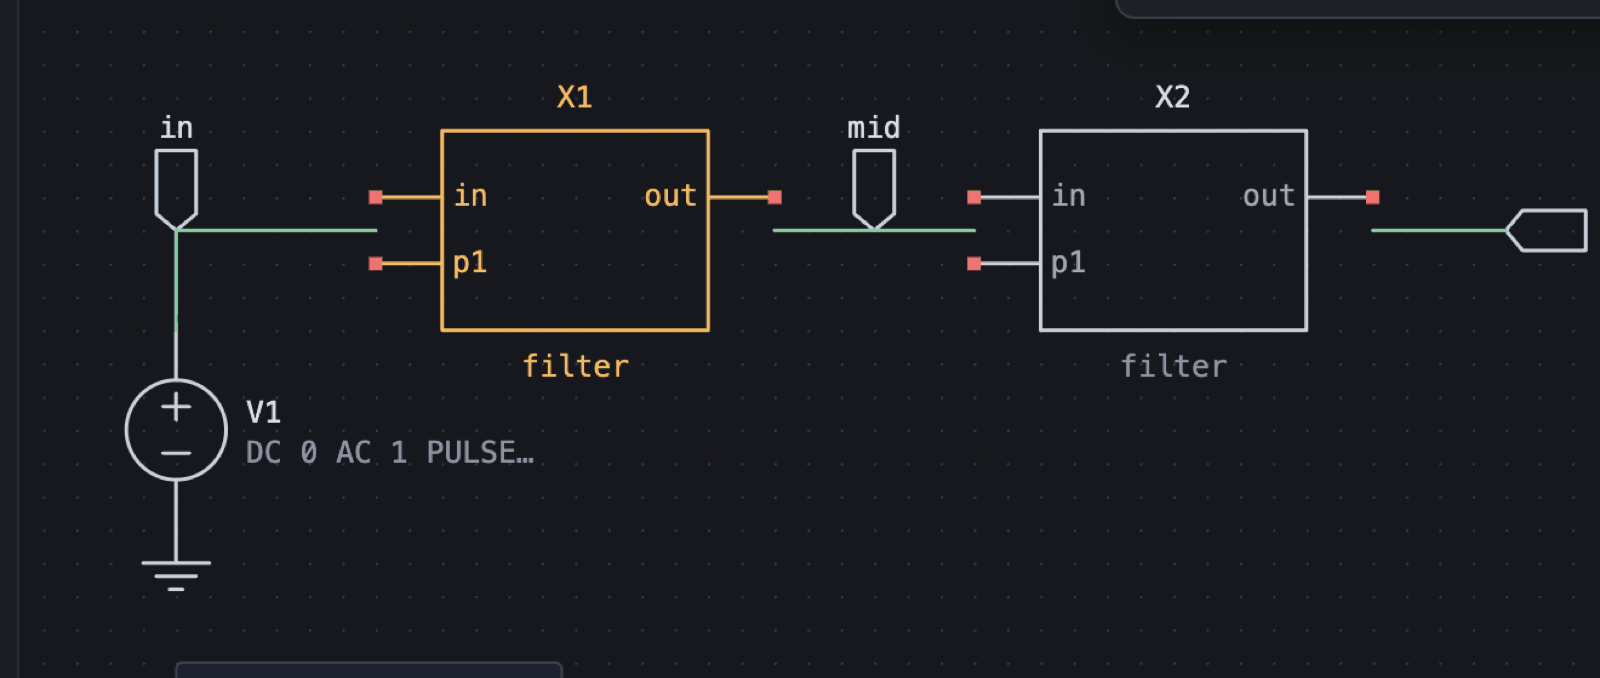
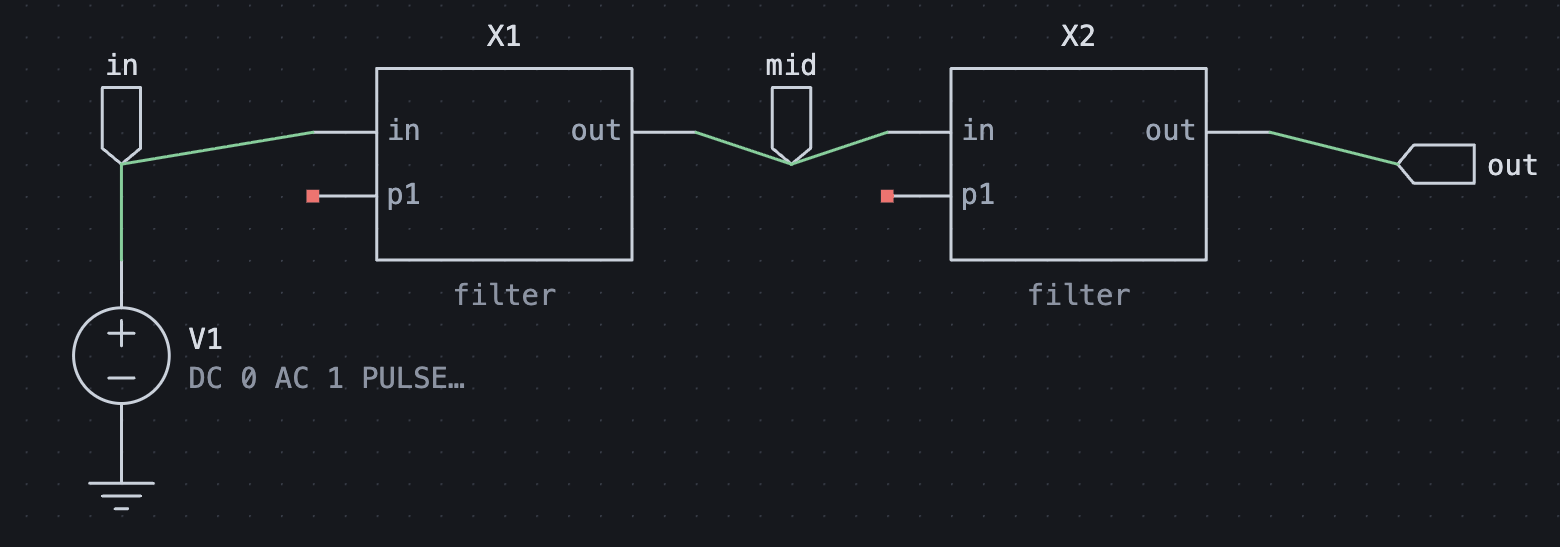
Fix issues found while writing the guide
- Block wires follow their pins (matched by name) when a sheet's ports change,
  for both the automatic refresh and Update pins
- Operating Point table shows the first vector (.op rawfiles have no scale)
- Analysis dialog adds a card unless opened via Edit as analysis
- Monte Carlo: legend scrolls instead of squeezing the plot; mean/sigma/min/max
  columns come first in Measurements
- New-project location keeps ~ at the start; long pack licences no longer
  widen the library detail card
- README: Sample pack listed, platforms are macOS and Windows
- Guide text and two screenshots updated to match

diff --git a/src/renderer/src/schematic/Schematic.tsx b/src/renderer/src/schematic/Schematic.tsx
@@ -1,5 +1,5 @@
 import { useEffect, useId, useImperativeHandle, useLayoutEffect, useMemo, useRef, useState, type KeyboardEvent as RKE, type MouseEvent as RME, type PointerEvent as RPE, type Ref } from 'react'
-import { GRID, blockShape, junctions, newPart, nextName, onSegment, pins, route, same, snap, uid, sheetPorts, unconnectedPins, xform, type Directive, type Part, type Pt, type Sheet } from './model'
+import { GRID, blockShape, junctions, reshapeBlocks, newPart, nextName, onSegment, pins, route, same, snap, uid, sheetPorts, unconnectedPins, xform, type Directive, type Part, type Pt, type Sheet } from './model'
 import { SYMBOLS, isFlag, type Kind } from './symbols'
 import { netlist, type NetCtx } from './netlist'
 import { blockPartFields, libKey, type LibEntry } from '../library/library'
@@ -169,7 +169,7 @@ export function Schematic({ active, initial, onDirty, ref, overlay, onProbe, lib
   const [space, setSpace] = useState(false)
   const [hov, setHov] = useState<ProbeTarget | null>(null)
   const [showOp, setShowOp] = useState(true)
-  const [dlg, setDlg] = useState<Tab | 'analysis' | null>(null) // analysis dialog open, on this tab
+  const [dlg, setDlg] = useState<Tab | 'analysis' | 'edit' | null>(null) // analysis dialog open, on this tab ('edit': rewrite the selected card)
   const [srcDlg, setSrcDlg] = useState(false)
   const [band, setBand] = useState<{ a: Pt; b: Pt } | null>(null) // differential probe rubber band
   const modal = !!dlg || srcDlg
@@ -557,10 +557,8 @@ export function Schematic({ active, initial, onDirty, ref, overlay, onProbe, lib
     if (p?.sheet && onOpenSheet) return onOpenSheet(p.sheet)
     ta.current?.focus()
   }
-  // re-fit a sheet block's pins to the sheet's current ports (wires on surviving pins follow by index)
-  function updateBlock(p: Part, ports: string[]) {
-    commit(remap(cur.current, new Set([p.id]), (q) => ({ ...q, ...blockShape(ports) })))
-  }
+  // re-fit a sheet block's pins to the sheet's current ports (wires on surviving pins follow by name)
+  const updateBlock = (p: Part, ports: string[]) => commit(reshapeBlocks(cur.current, new Set([p.id]), ports))
 
   const setText = (s: Sheet, id: string, text: string) => commit({ ...s, texts: s.texts.map((t) => (t.id === id ? { ...t, text } : t)) })
   function addCard(text: string) {
@@ -571,7 +569,7 @@ export function Schematic({ active, initial, onDirty, ref, overlay, onProbe, lib
   function applyAnalysis(a: Analysis) {
     const text = analysisText(a)
     setDlg(null)
-    if (dirA) return setText(cur.current, dir!.id, text)
+    if (dlg === 'edit' && dir) return setText(cur.current, dir.id, text)
     addCard(text)
   }
   // the sheet's .options line: the first directive line starting .options/.option/.opt (in any card)
@@ -769,7 +767,7 @@ export function Schematic({ active, initial, onDirty, ref, overlay, onProbe, lib
             <textarea ref={ta} rows={6} value={dir.text} spellCheck={false} onChange={(e) => editText(dir.id, e.target.value)}
               onKeyDown={(e) => e.key === 'Escape' && e.currentTarget.blur()} onBlur={() => (hist.current.merge = undefined)} />
           </label>
-          {dirA && <button onClick={() => setDlg('analysis')}>Edit as analysis…</button>}
+          {dirA && <button onClick={() => setDlg('edit')}>Edit as analysis…</button>}
           {optLine(dir.text) != null && <button onClick={() => setDlg('options')}>Edit options…</button>}
         </div>
       )}
@@ -777,8 +775,8 @@ export function Schematic({ active, initial, onDirty, ref, overlay, onProbe, lib
       <div className="sch-hint">{hint}</div>
       {/* portalled: panels beside the canvas would otherwise stack above the modal */}
       {dlg && createPortal(
-        <AnalysisDialog initial={dirA ?? undefined} sources={sources} nets={[...new Set(Object.values(nl.nets).flat())].filter((n) => n !== '0').sort()}
-          onApply={applyAnalysis} options={optCard(sheet) && optLine(optCard(sheet)!.text)} tab={dlg === 'analysis' ? undefined : dlg}
+        <AnalysisDialog initial={(dlg === 'edit' && dirA) || undefined} sources={sources} nets={[...new Set(Object.values(nl.nets).flat())].filter((n) => n !== '0').sort()}
+          onApply={applyAnalysis} options={optCard(sheet) && optLine(optCard(sheet)!.text)} tab={dlg === 'analysis' || dlg === 'edit' ? undefined : dlg}
           onOptions={(line) => (setDlg(null), putOptions(line, false))} onClose={() => setDlg(null)} />, document.body
       )}
       {srcDlg && one && isSrc(one) && createPortal(

diff --git a/test/project.test.ts b/test/project.test.ts
@@ -2,7 +2,7 @@ import { test } from 'node:test'
 import assert from 'node:assert/strict'
 import { inside, safeName } from '../src/main/paths.ts'
 import { newProject, parseProject, refreshBlocks, renameRefs, sheetFile, validName } from '../src/renderer/src/project/project.ts'
-import { blockShape, emptySheet, newPart, sheetPorts, type Sheet } from '../src/renderer/src/schematic/model.ts'
+import { blockShape, emptySheet, newPart, pins, sheetPorts, type Sheet } from '../src/renderer/src/schematic/model.ts'
 
 test('newProject round-trips through parseProject', () => {
   const p = newProject('Amp')
@@ -65,6 +65,23 @@ test('refreshBlocks / renameRefs update block instances only when needed', () =>
   const n = renameRefs(r, 'f.nsch', 'g.nsch')!
   assert.equal(n.parts[0].sheet, 'g.nsch')
   assert.equal(renameRefs(n, 'f.nsch', 'h.nsch'), null)
+})
+
+test('refreshBlocks: wires follow their pin by name when a port is added mid-list', () => {
+  const port = (s: Sheet, v: string, x: number, y: number) => newPart(s, 'port', x, y, 0, false, { value: v })
+  const sub = emptySheet()
+  sub.parts.push(port(sub, 'a', 0, 0), port(sub, 'c', 0, 40))
+  const main: Sheet = emptySheet()
+  const blk = newPart(main, 'block', 0, 0, 90, false, { sheet: 'f.nsch', ...blockShape(sheetPorts(sub)) }) // rotated
+  main.parts.push(blk)
+  const [pa, pc] = pins(blk)
+  main.wires.push({ id: 'wa', a: pa, b: { x: -200, y: -200 } }, { id: 'wc', a: { x: 200, y: 200 }, b: pc })
+  sub.parts.push(port(sub, 'b', 0, 20)) // ports now a, b, c: 'c' moves to the other side
+  const r = refreshBlocks(main, 'f.nsch', sub)!
+  const at = Object.fromEntries(r.parts[0].pins!.map((q, i) => [q.name, pins(r.parts[0])[i]]))
+  assert.deepEqual(r.wires[0].a, at.a)
+  assert.deepEqual(r.wires[1].b, at.c)
+  assert.deepEqual(r.wires[0].b, { x: -200, y: -200 }) // far ends untouched
 })
 
 test('parseProject: optional sim settings (compat, timeoutS)', () => {

diff --git a/src/renderer/src/layout/ResultsPanel.tsx b/src/renderer/src/layout/ResultsPanel.tsx
@@ -53,7 +53,7 @@ export function ResultsPanel({ tabs, cur, ran, onTab, sels, onSels, log, blamed,
   )
 }
 
-// one column per run; with more than 2 runs (Monte Carlo / sweeps) also mean, σ (sample), min and max
+// one column per run; with more than 2 runs (Monte Carlo / sweeps) mean, σ (sample), min and max come first
 function Measurements({ meas }: { meas: MeasTable }) {
   const names = [...new Set(meas.flatMap((r) => r.rows.map((m) => m.name)))]
   const stats = meas.length > 2
@@ -63,8 +63,8 @@ function Measurements({ meas }: { meas: MeasTable }) {
         <thead>
           <tr>
             <th />
-            {meas.map((r, i) => <th key={i}>{r.label || 'Value'}</th>)}
             {stats && ['mean', 'σ', 'min', 'max'].map((h) => <th key={h} className="stat">{h}</th>)}
+            {meas.map((r, i) => <th key={i}>{r.label || 'Value'}</th>)}
           </tr>
         </thead>
         <tbody>
@@ -76,12 +76,12 @@ function Measurements({ meas }: { meas: MeasTable }) {
             return (
               <tr key={n}>
                 <td>{n}</td>
+                {stats && [mean, sd, v.length ? Math.min(...v) : null, v.length ? Math.max(...v) : null].map((x, i) => <td key={i} className="stat">{eng(x)}</td>)}
                 {cells.map((m, i) => (
                   <td key={i} title={m?.text} className={m && m.value == null ? 'bad' : ''}>
                     {!m ? '—' : m.value == null ? 'failed' : eng(m.value)}
                   </td>
                 ))}
-                {stats && [mean, sd, v.length ? Math.min(...v) : null, v.length ? Math.max(...v) : null].map((x, i) => <td key={i} className="stat">{eng(x)}</td>)}
               </tr>
             )
           })}

diff --git a/src/renderer/src/library/library.css b/src/renderer/src/library/library.css
@@ -69,7 +69,7 @@
 .chip { flex: none; font: 10px var(--mono); padding: 1px 6px; border: 1px solid #353b48; border-radius: 9px; color: var(--dim); white-space: nowrap; }
 
 .libv-detail { padding: 20px 24px; }
-.libv-card { max-width: 720px; display: grid; gap: 10px; }
+.libv-card { max-width: 720px; display: grid; grid-template-columns: minmax(0, 1fr); gap: 10px; }
 .libv-head { display: flex; align-items: center; gap: 8px; flex-wrap: wrap; }
 .libv-card h2 { margin: 0 6px 0 0; font-size: 20px; font-weight: 600; font-family: var(--mono); }
 .libv-card h3 { display: flex; align-items: center; margin: 10px 0 0; font-size: 11px; font-weight: 600; text-transform: uppercase; letter-spacing: 0.05em; color: var(--dim); }
@@ -110,7 +110,7 @@
 
 /* library sources: packs (license badge + source), import target */
 .libv-lic { white-space: nowrap; font: 600 9px var(--mono); letter-spacing: 0.02em; text-transform: none; color: #8fc79a; border: 1px solid #3c5a43; border-radius: 4px; padding: 0 4px; }
-.chip.libv-lic { border-radius: 9px; font-weight: 400; font-size: 10px; }
+.chip.libv-lic { border-radius: 9px; font-weight: 400; font-size: 10px; max-width: 100%; overflow: hidden; text-overflow: ellipsis; }
 .libv-link { padding: 0; border: 0; background: none; font: inherit; color: var(--accent); }
 .libv-link:hover { background: none; text-decoration: underline; }
 .libv-to { display: grid; grid-template-columns: 1fr 1fr; border: 1px solid #353b48; border-radius: 6px; overflow: hidden; }

diff --git a/src/renderer/src/project/project.ts b/src/renderer/src/project/project.ts
@@ -1,7 +1,7 @@
 // Project file (.nsproj) model + pure sheet-set helpers. No React, no Electron: node --test loads it.
 import type { Compat, ProjectSim } from '../contracts.ts'
 import type { ImportedLib } from '../library/library.ts'
-import { blockShape, sheetPorts, type Sheet } from '../schematic/model.ts'
+import { reshapeBlocks, sheetPorts, type Sheet } from '../schematic/model.ts'
 import { SYMBOLS } from '../schematic/symbols.ts'
 
 export interface Project { version: 1; name: string; top: string; libs: ImportedLib[]; sim?: ProjectSim }
@@ -53,9 +53,8 @@ export function sheetFile(name: string): string | null {
 export function refreshBlocks(s: Sheet, file: string, sub: Sheet): Sheet | null {
   const ports = sheetPorts(sub), names = (a: string[]) => a.map((n) => n.toLowerCase()).sort().join('\0')
   const want = names(ports)
-  let shape: ReturnType<typeof blockShape> | undefined
-  const parts = s.parts.map((p) => (p.sheet !== file || names((p.pins ?? []).map((q) => q.name)) === want ? p : { ...p, ...(shape ??= blockShape(ports)) }))
-  return shape ? { ...s, parts } : null
+  const ids = new Set(s.parts.filter((p) => p.sheet === file && names((p.pins ?? []).map((q) => q.name)) !== want).map((p) => p.id))
+  return ids.size ? reshapeBlocks(s, ids, ports) : null
 }
 
 // Re-point block parts after a sheet rename. null when nothing referenced it.

diff --git a/src/renderer/src/Plot.tsx b/src/renderer/src/Plot.tsx
@@ -89,6 +89,8 @@ export function Plot({ runs, sel, onSel }: { runs: PlotRun[]; sel: string[]; onS
   // inductors/V-like parts come back twice with savecurrents (branch i(l1) and device i(@l1[i])): list the branch only
   const dup = (v: RawVar) => { const m = /^i\(@([^[\]]+)\[i\]\)$/i.exec(v.name); return !!m && signals.some((w) => lc(w) === `i(${m[1].toLowerCase()})`) }
   const list = [...signals.filter((v) => !isCurrent(v.name)), ...signals.filter((v) => isCurrent(v.name) && !dup(v))]
+  // .op rawfiles have no scale vector (vars[0] is a real result): the table lists every vector
+  const rows = first.points >= 2 ? list : [scale, ...list]
   const exprs = sel.filter(isExpr)
   const hue = (key: string) => (isExpr(key) ? signals.length + exprs.indexOf(key) : signals.findIndex((v) => lc(v) === key))
   const grouped = isCurrent(list[0]?.name ?? '') !== isCurrent(list[list.length - 1]?.name ?? '') // both kinds present
@@ -275,7 +277,7 @@ export function Plot({ runs, sel, onSel }: { runs: PlotRun[]; sel: string[]; onS
           </thead>
         )}
         <tbody>
-          {list.map((v) => (
+          {rows.map((v) => (
             <tr key={v.name}>
               <td>{pretty(v.name)}</td>
               {runs.map(({ plot }, i) => (

diff --git a/src/renderer/src/schematic/model.ts b/src/renderer/src/schematic/model.ts
@@ -67,6 +67,19 @@ export function blockShape(ports: string[]): { pins: { name: string; x: number; 
   return { pins: [...side(left, -w / 2 - 20), ...side(right, w / 2 + 20)], size: { w, h } }
 }
 
+// Re-fit block parts `ids` to `ports`. Wire ends on a surviving pin (matched by name, any case) follow it; wires on
+// removed pins stay put (dangling), so a port added mid-list never shifts wires onto the wrong pins.
+export function reshapeBlocks(s: Sheet, ids: Set<string>, ports: string[]): Sheet {
+  const m = new Map<string, Pt>(), shape = blockShape(ports)
+  const parts = s.parts.map((p) => {
+    if (!ids.has(p.id)) return p
+    const n = { ...p, ...shape }, at = new Map(shape.pins.map((q) => [q.name.toLowerCase(), xform(n, q)]))
+    for (const q of p.pins ?? []) { const t = at.get(q.name.toLowerCase()); if (t) m.set(key(xform(p, q)), t) }
+    return n
+  })
+  return { ...s, parts, wires: s.wires.map((w) => ({ ...w, a: m.get(key(w.a)) ?? w.a, b: m.get(key(w.b)) ?? w.b })) }
+}
+
 // Port names of a sheet (= its subckt pins), left-to-right then top-to-bottom; duplicates (case-insensitive) once.
 export function sheetPorts(s: Sheet): string[] {
   const seen = new Set<string>()

diff --git a/src/renderer/src/library/LibraryView.tsx b/src/renderer/src/library/LibraryView.tsx
@@ -99,7 +99,7 @@ function Detail({ e, packs, onNotice }: { e: LibEntry; packs: PackInfo[]; onNoti
         <h2>{e.name}</h2>
         <span className="chip">{e.category}</span>
         <span className="chip">{e.source === 'bundled' ? 'bundled' : fileOf(e)}</span>
-        {pack?.license && <span className="chip libv-lic">{pack.license}</span>}
+        {pack?.license && <span className="chip libv-lic" title={pack.license}>{pack.license}</span>}
       </div>
       <p className="libv-desc">{e.description}</p>
       <div className="libv-sym"><SymbolPreview kind={e.kind} part={e.kind === 'block' ? blockPartFields(e) : undefined} size="large" /></div>

diff --git a/src/renderer/src/home/Home.tsx b/src/renderer/src/home/Home.tsx
@@ -113,7 +113,7 @@ export function Home({ onCreate, onOpen, onOpenFile, onLibrary, error, form, set
                 <label>
                   <span>Location</span>
                   <div className="loc">
-                    <code title={parent}>{tilde(parent)}{name.trim() && validName(name) ? '/' + name.trim() : ''}</code>
+                    <code title={parent}><bdi dir="ltr">{tilde(parent)}{name.trim() && validName(name) ? '/' + name.trim() : ''}</bdi></code>
                     <button type="button" onClick={pick}>Change…</button>
                   </div>
                 </label>

diff --git a/src/renderer/src/style.css b/src/renderer/src/style.css
@@ -70,6 +70,8 @@ main.sch { grid-template-columns: minmax(420px, 58%) 1fr; }
 .hint .exp { display: flex; gap: 2px; }
 .hint .exp button { font-size: 10px; padding: 0 5px; }
 .u-legend { color: var(--text); font-family: var(--mono); font-size: 12px; }
+/* many sweep / Monte Carlo runs: the legend scrolls instead of squeezing the chart (Plot sizes the chart from its height) */
+.u-legend.u-inline { max-height: 66px; overflow-y: auto; }
 .u-select { background: rgba(79, 195, 247, 0.12); }
 
 table.op { margin: 16px; border-collapse: collapse; font-family: var(--mono); }

diff --git a/src/renderer/src/main.tsx b/src/renderer/src/main.tsx
@@ -854,7 +854,7 @@ function Workspace({ session, route, go, onClose, sources }: { session: Session;
           <span>{status}</span>
           {plot && (
             <span>
-              {plot.points} points · {plot.vars.length - 1} vectors{cur.runs.length > 1 ? ` · ${cur.runs.length} runs` : ''}
+              {plot.points} point{plot.points === 1 ? '' : 's'} · {plot.vars.length - (plot.points >= 2 ? 1 : 0)} vectors{cur.runs.length > 1 ? ` · ${cur.runs.length} runs` : ''}
             </span>
           )}
         </footer>

diff --git a/README.md b/README.md
@@ -12,7 +12,7 @@
 </p>
 
 <p align="center">
-  <img alt="macOS | Windows | Linux" src="https://img.shields.io/badge/platform-macOS%20%7C%20Windows%20%7C%20Linux-4fc3f7?style=flat-square">
+  <img alt="macOS | Windows" src="https://img.shields.io/badge/platform-macOS%20%7C%20Windows-4fc3f7?style=flat-square">
   <img alt="Electron 45" src="https://img.shields.io/badge/Electron-45-47848f?style=flat-square&logo=electron&logoColor=white">
   <img alt="TypeScript" src="https://img.shields.io/badge/TypeScript-7-3178c6?style=flat-square&logo=typescript&logoColor=white">
   <img alt="React 19" src="https://img.shields.io/badge/React-19-61dafb?style=flat-square&logo=react&logoColor=black">
@@ -95,7 +95,7 @@
 ### 🖥 A real desktop app
 - Native menu bar, keyboard shortcuts, collapsible panels
 - ngspice is bundled: nothing else to install
-- Signed macOS builds; Windows and Linux installers
+- Signed macOS builds; a Windows installer
 - Open `.nsproj` / `.nsch` files from Finder or Explorer
 
 </td>
@@ -155,7 +155,7 @@ The Home page shows which engine is in use.
 | <kbd>W</kbd> | wire (<kbd>/</kbd> flips the corner) | <kbd>⌘</kbd> <kbd>1</kbd> <kbd>2</kbd> <kbd>3</kbd> | sheets / parts / plots panels | <kbd>⌘</kbd> <kbd>N</kbd> / <kbd>⌘</kbd> <kbd>O</kbd> | new / open project |
 | <kbd>S</kbd> | SPICE directive | <kbd>/</kbd> | search parts | <kbd>⌘</kbd> <kbd>/</kbd> | all shortcuts |
 
-On Windows and Linux, use <kbd>Ctrl</kbd> where this table says <kbd>⌘</kbd>.
+On Windows, use <kbd>Ctrl</kbd> where this table says <kbd>⌘</kbd>.
 
 ## Component libraries
 
@@ -167,6 +167,7 @@ Every part in the app simulates in ngspice. Packs can be switched on and off in 
 | **Qucs-S community parts** | 2,309 | Diodes, BJTs, JFETs, MOSFETs, op-amps, references, regulators, optocouplers and a 555. Converted from [Qucs-S](https://github.com/ra3xdh/qucs_s) at a pinned commit; parts carrying vendor notices are excluded. | GPL-2.0-or-later |
 | **Zetex discretes** (Diodes Inc.) | 437 | BJTs, diodes, MOSFETs and references, shipped byte-identical with the vendor's notice. | Zetex model notice |
 | **National Semiconductor op-amps** | 134 | Op-amp and comparator macromodels, shipped byte-identical with the vendor's notice. | National notice (no resale) |
+| **Sample pack** | 3 | Two generic diodes and a limiter subcircuit: a minimal example of how a bundled pack is laid out ([`library-packs/sample/`](library-packs/sample/)). | CC0-1.0 |
 
 Each pack's source, checksums and build notes are in [`library-packs/`](library-packs/), and the scripts that build them are in [`scripts/packs/`](scripts/packs/). To use other vendor models, import the `.lib`/`.mod` file through **Manage Libraries → Import library…**. It goes into *My libraries* (available in every project) or into the current project, and project copies travel with the project.
 
